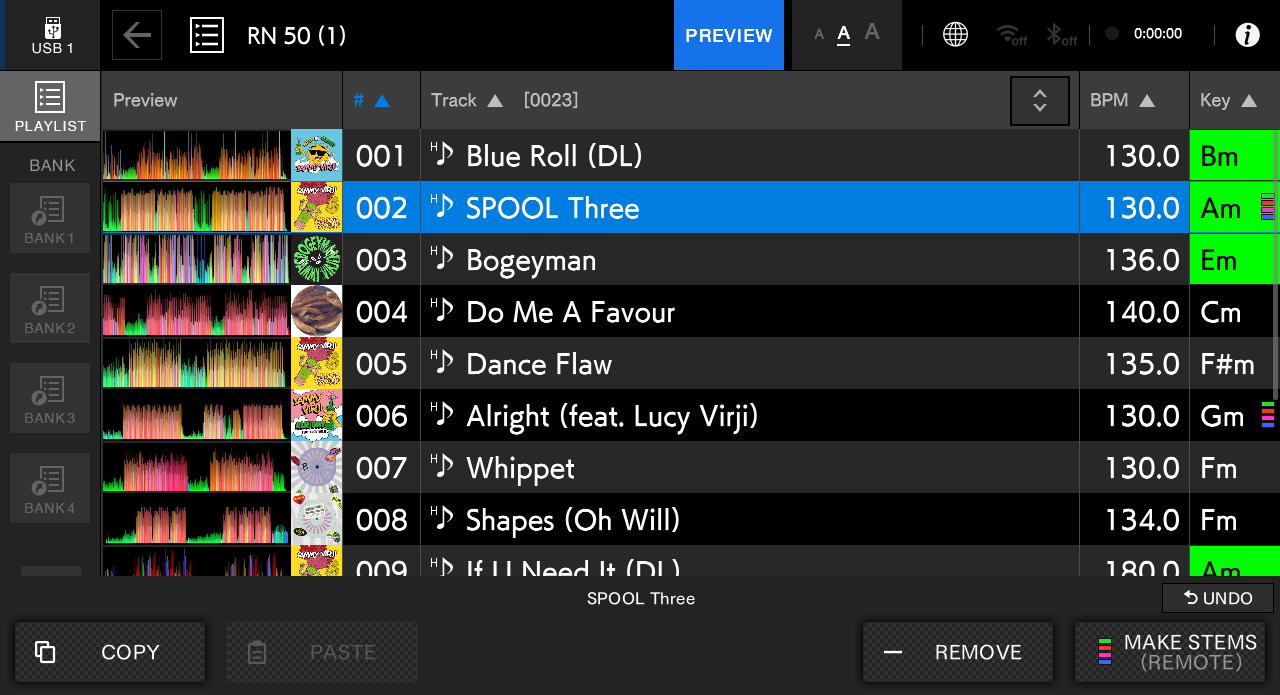
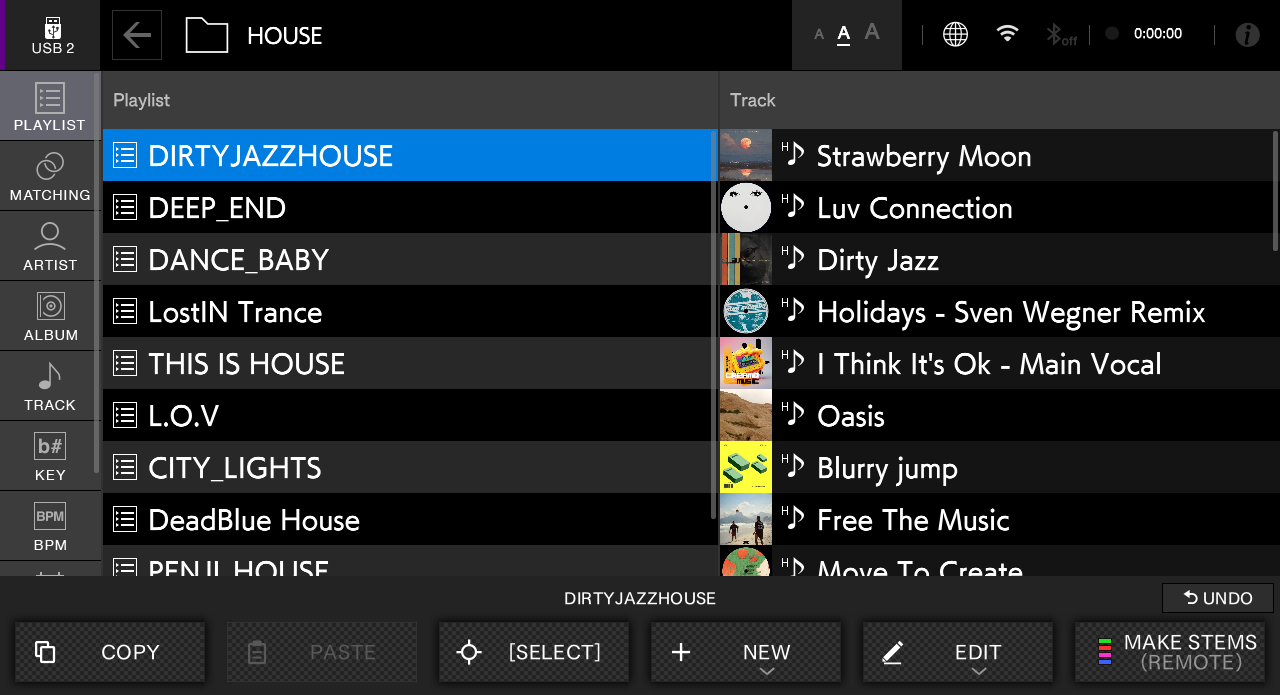
README: Playlist Editing screenshots from the deck

diff --git a/README.md b/README.md
@@ -151,7 +151,7 @@ Press **MENU** on a track, playlist or folder for the rest:
 - **SELECT** a playlist, then **ADD TO** from any list, including Search
 - **UNDO** your recent edits, one at a time
 
-<p align="center"><img src="images/playlist-menu.png" width="640" alt="MENU on a track: COPY, PASTE, REMOVE, MAKE STEMS and UNDO"></p>
+<p align="center"><img src="images/playlist-menu.png" width="640" alt="MENU on a playlist: COPY, PASTE, SELECT, NEW, EDIT, MAKE STEMS and UNDO"></p>
 
 Edits are written the way rekordbox expects, so your USB stays in step with
 rekordbox. Turn it on under **Playlist Editing** in the Mod Menu.
